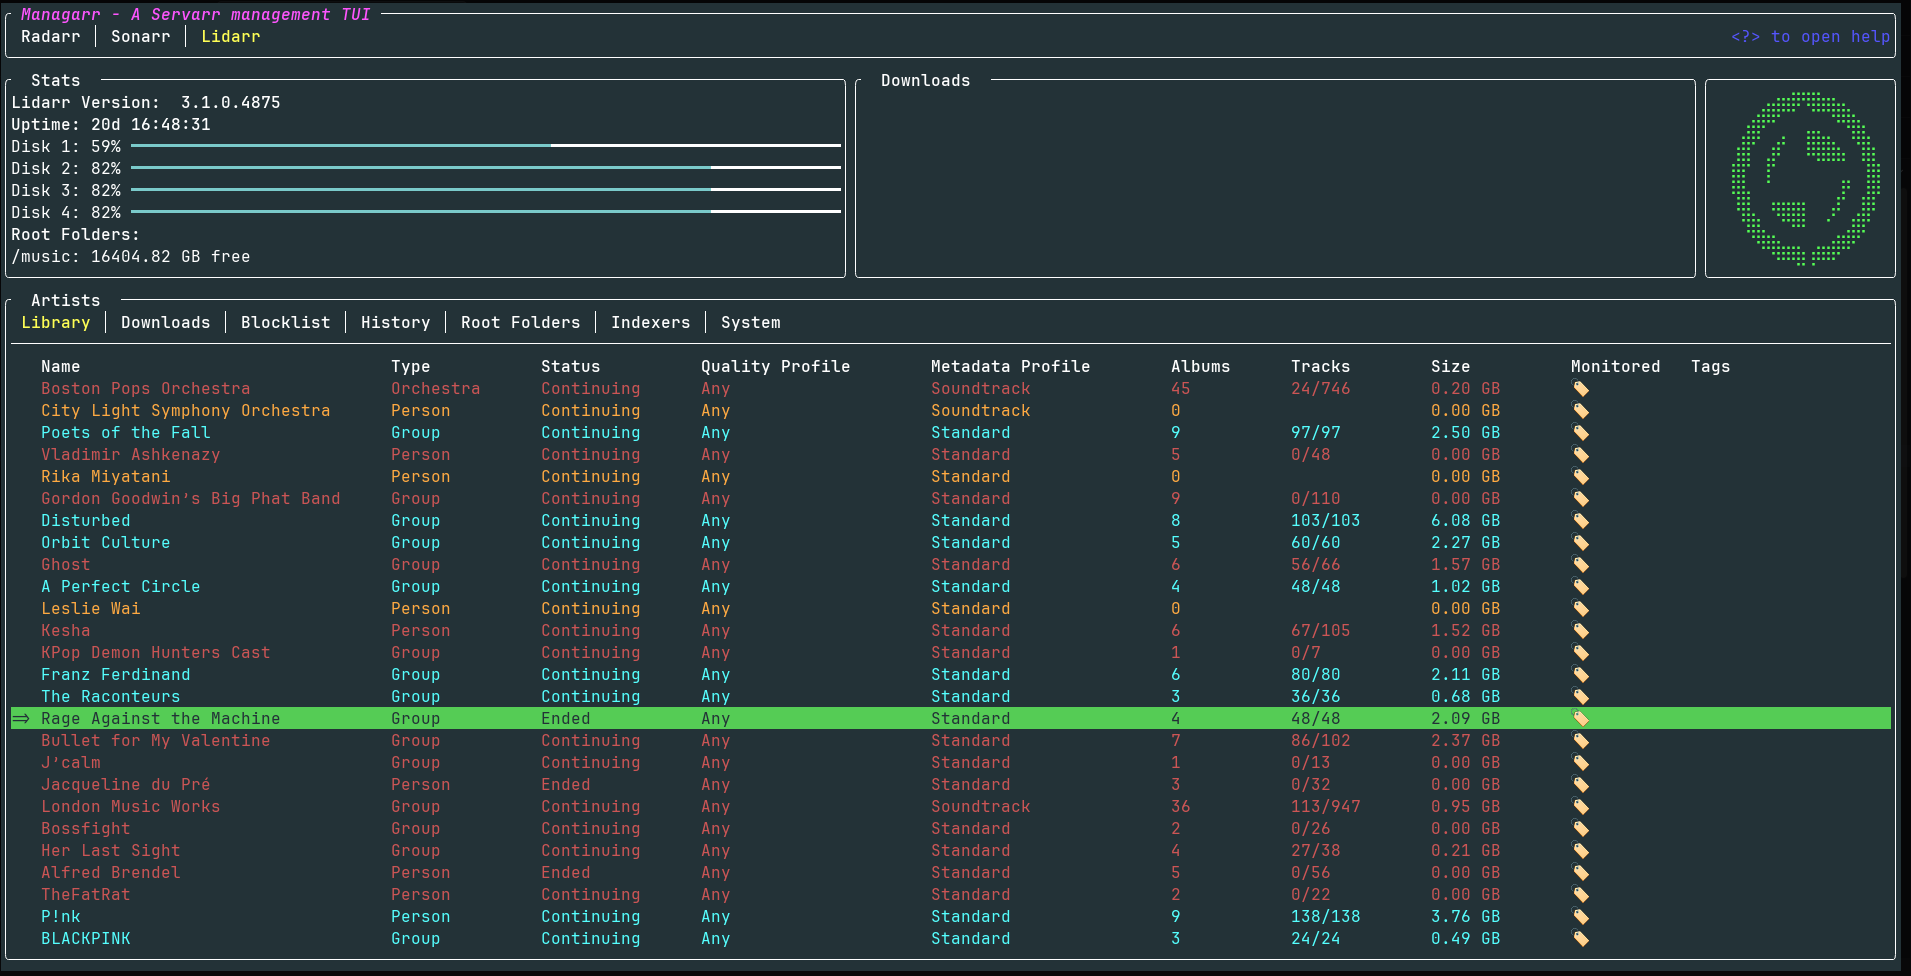
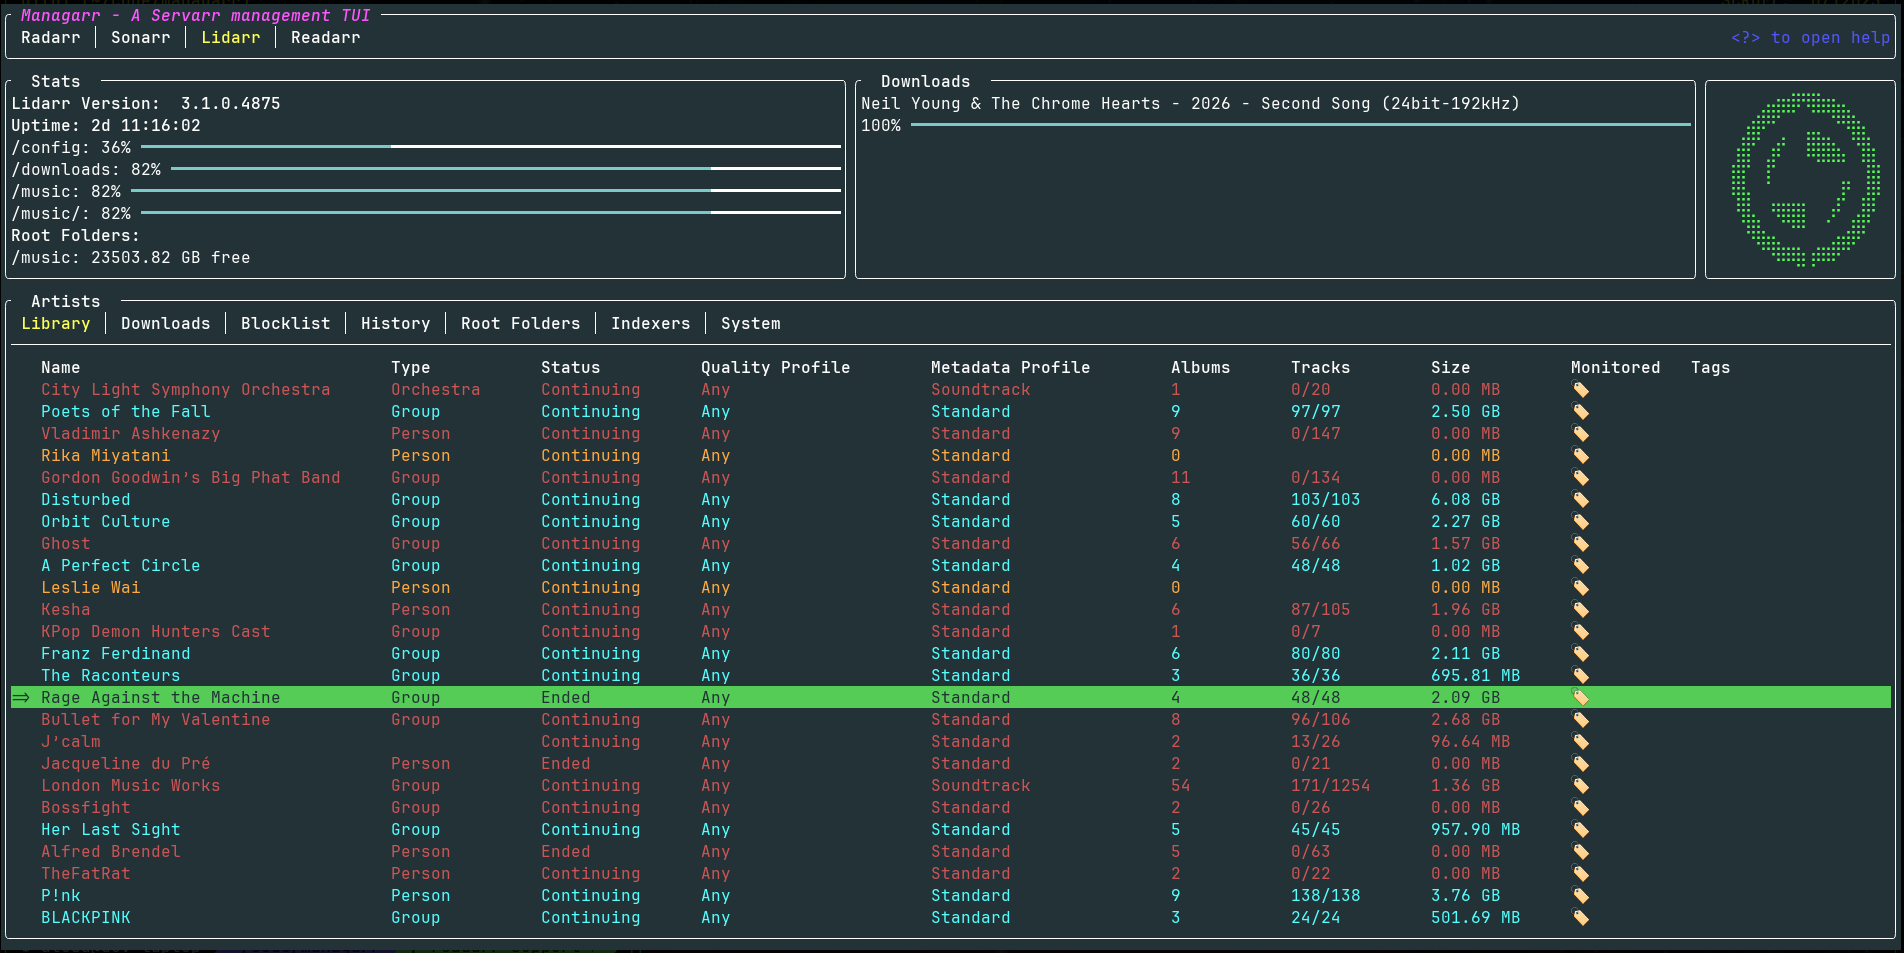
docs: Updated README with screenshots of Readarr

diff --git a/README.md b/README.md
@@ -261,7 +261,7 @@ To see all available commands, simply run `managarr --help`:
 
 ```shell
 $ managarr --help
-managarr 0.7.0
+managarr 0.8.0
 Alex Clarke <alex.j.tusa@gmail.com>
 
 A TUI and CLI to manage your Servarrs
@@ -589,6 +589,13 @@ Managarr supports using environment variables on startup so you don't have to al
 ![album_details](screenshots/lidarr/album_details.png)
 ![artist_discography_search](screenshots/lidarr/artist_discography_search.png)
 ![manual_album_search](screenshots/lidarr/manual_album_search.png)
+
+### Readarr
+![readarr_library](screenshots/readarr/readarr_library.png)
+![author_details](screenshots/readarr/author_details.png)
+![book_details](screenshots/readarr/book_details.png)
+![manual_author_search](screenshots/readarr/manual_author_search.png)
+![manual_album_search](screenshots/readarr/manual_book_search.png)
 
 ### General
 ![logs](screenshots/radarr/logs.png)
